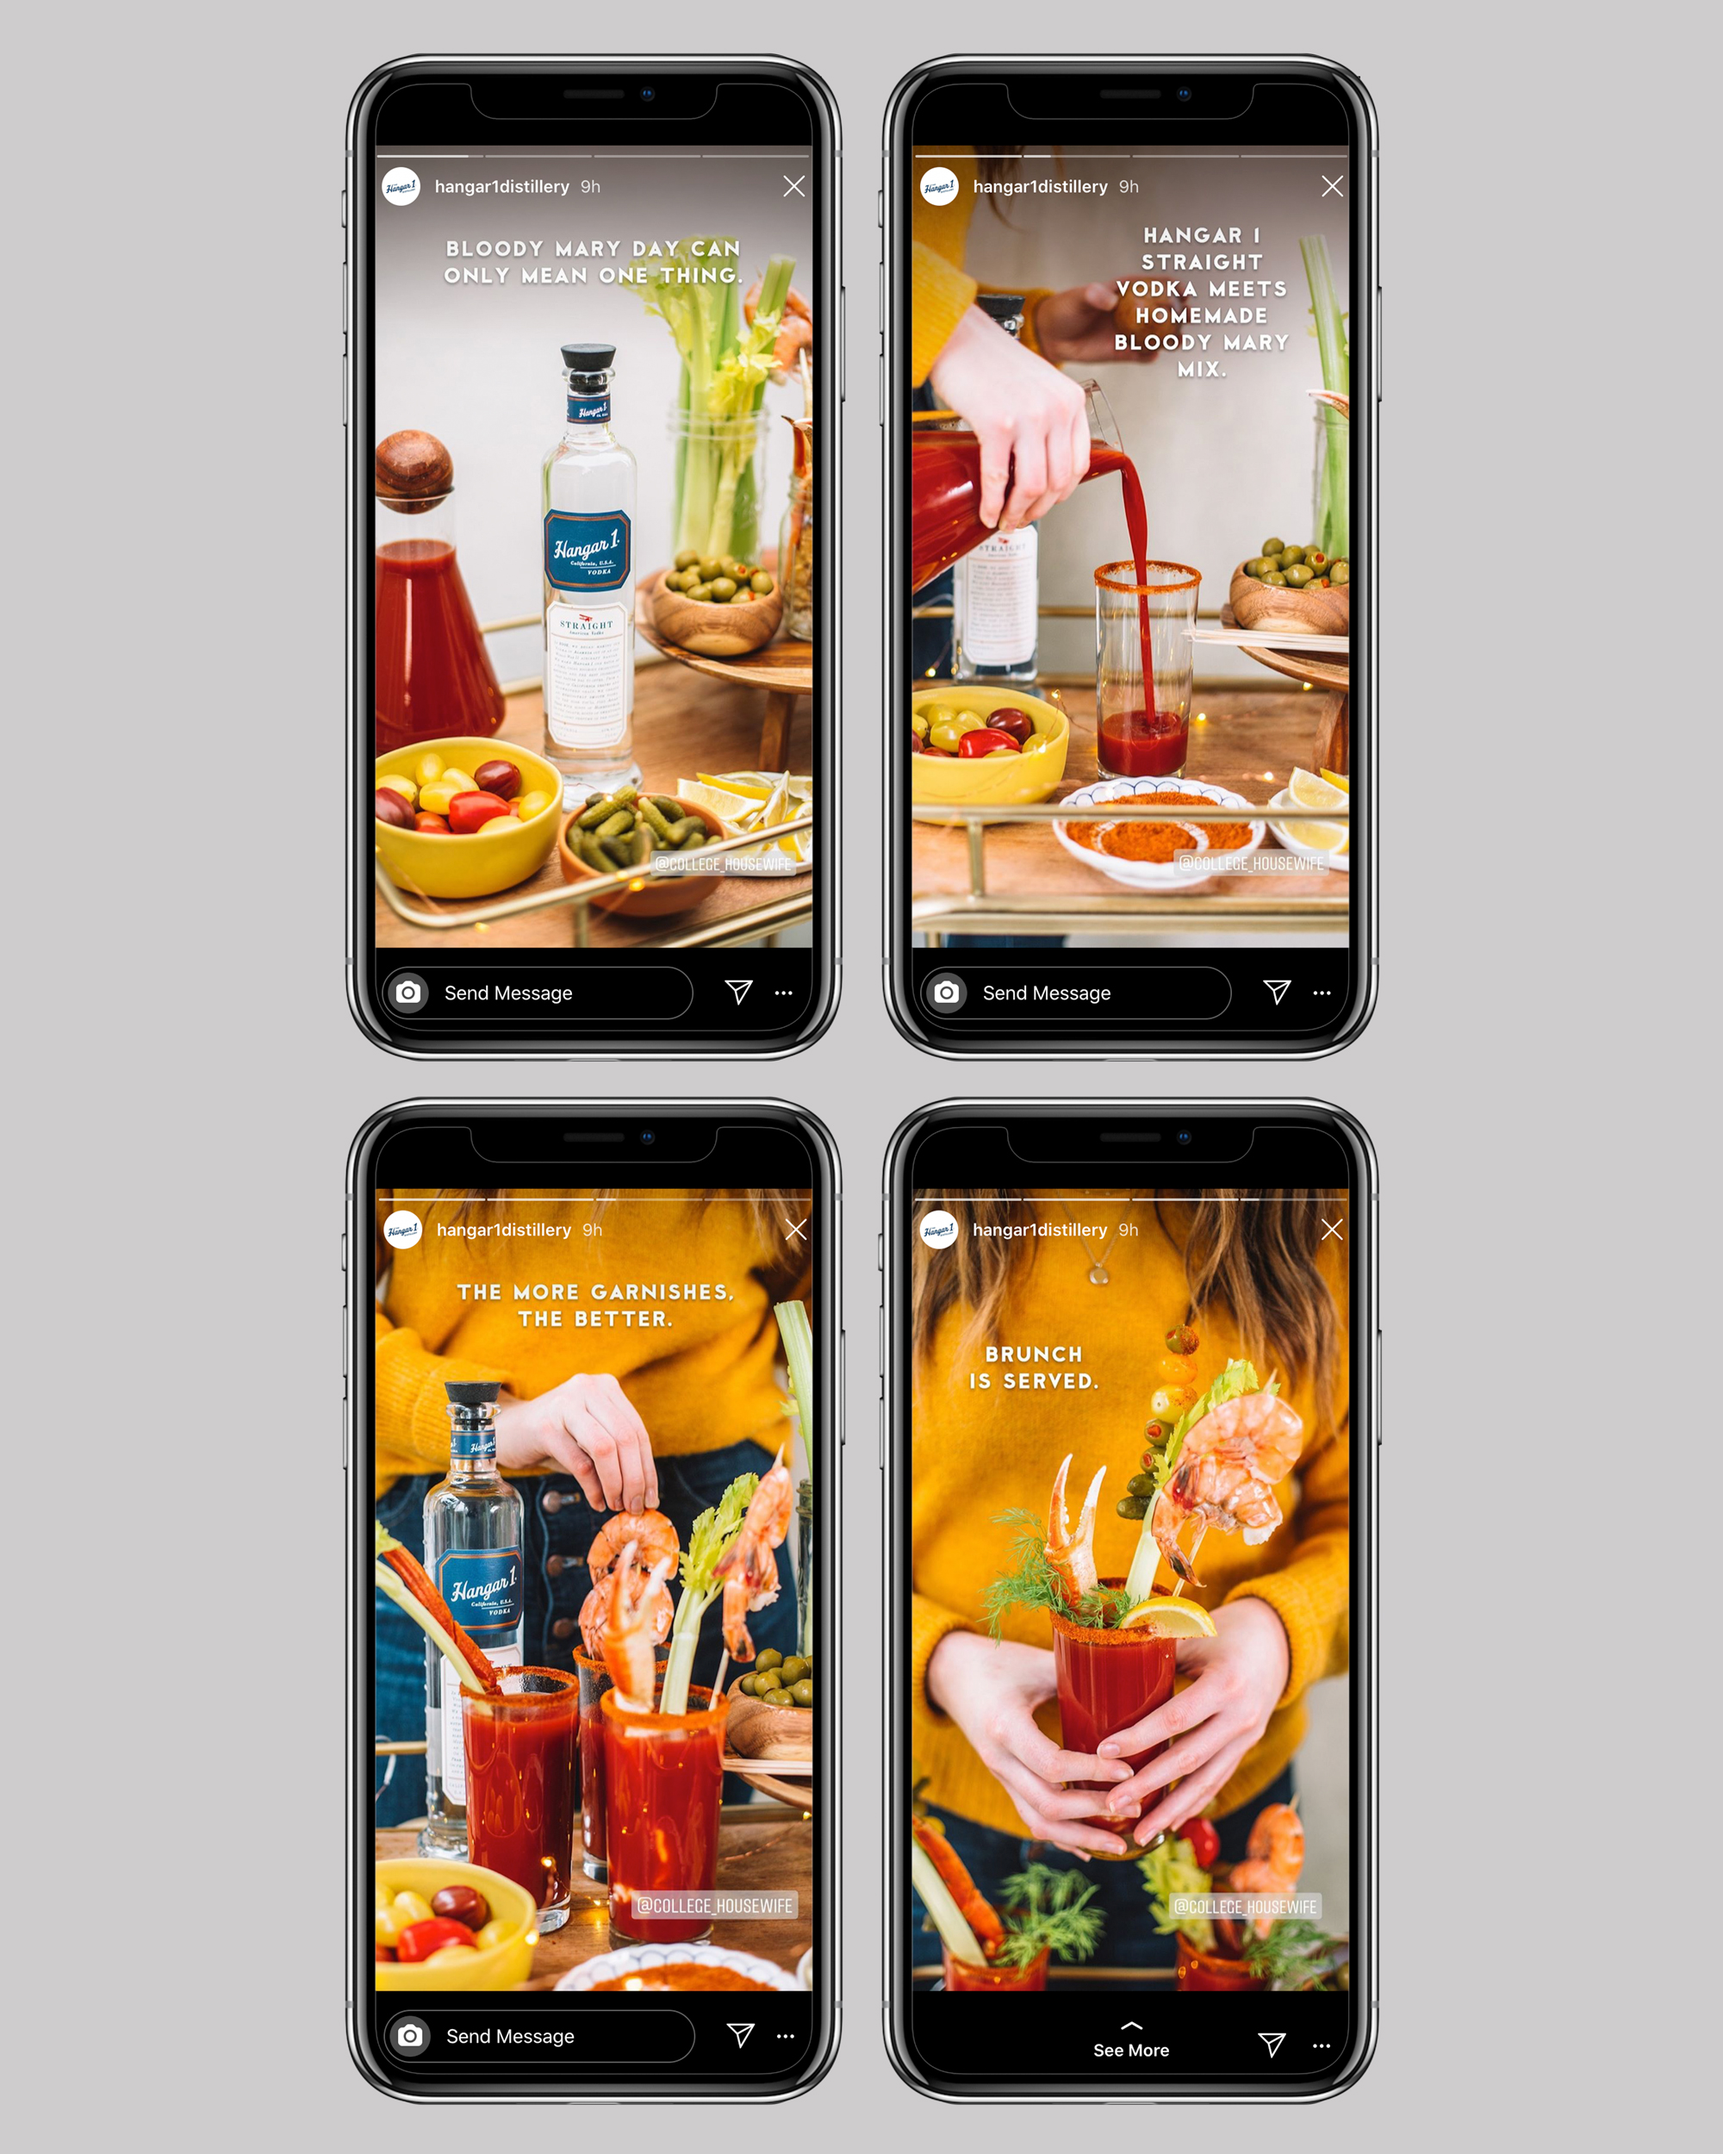
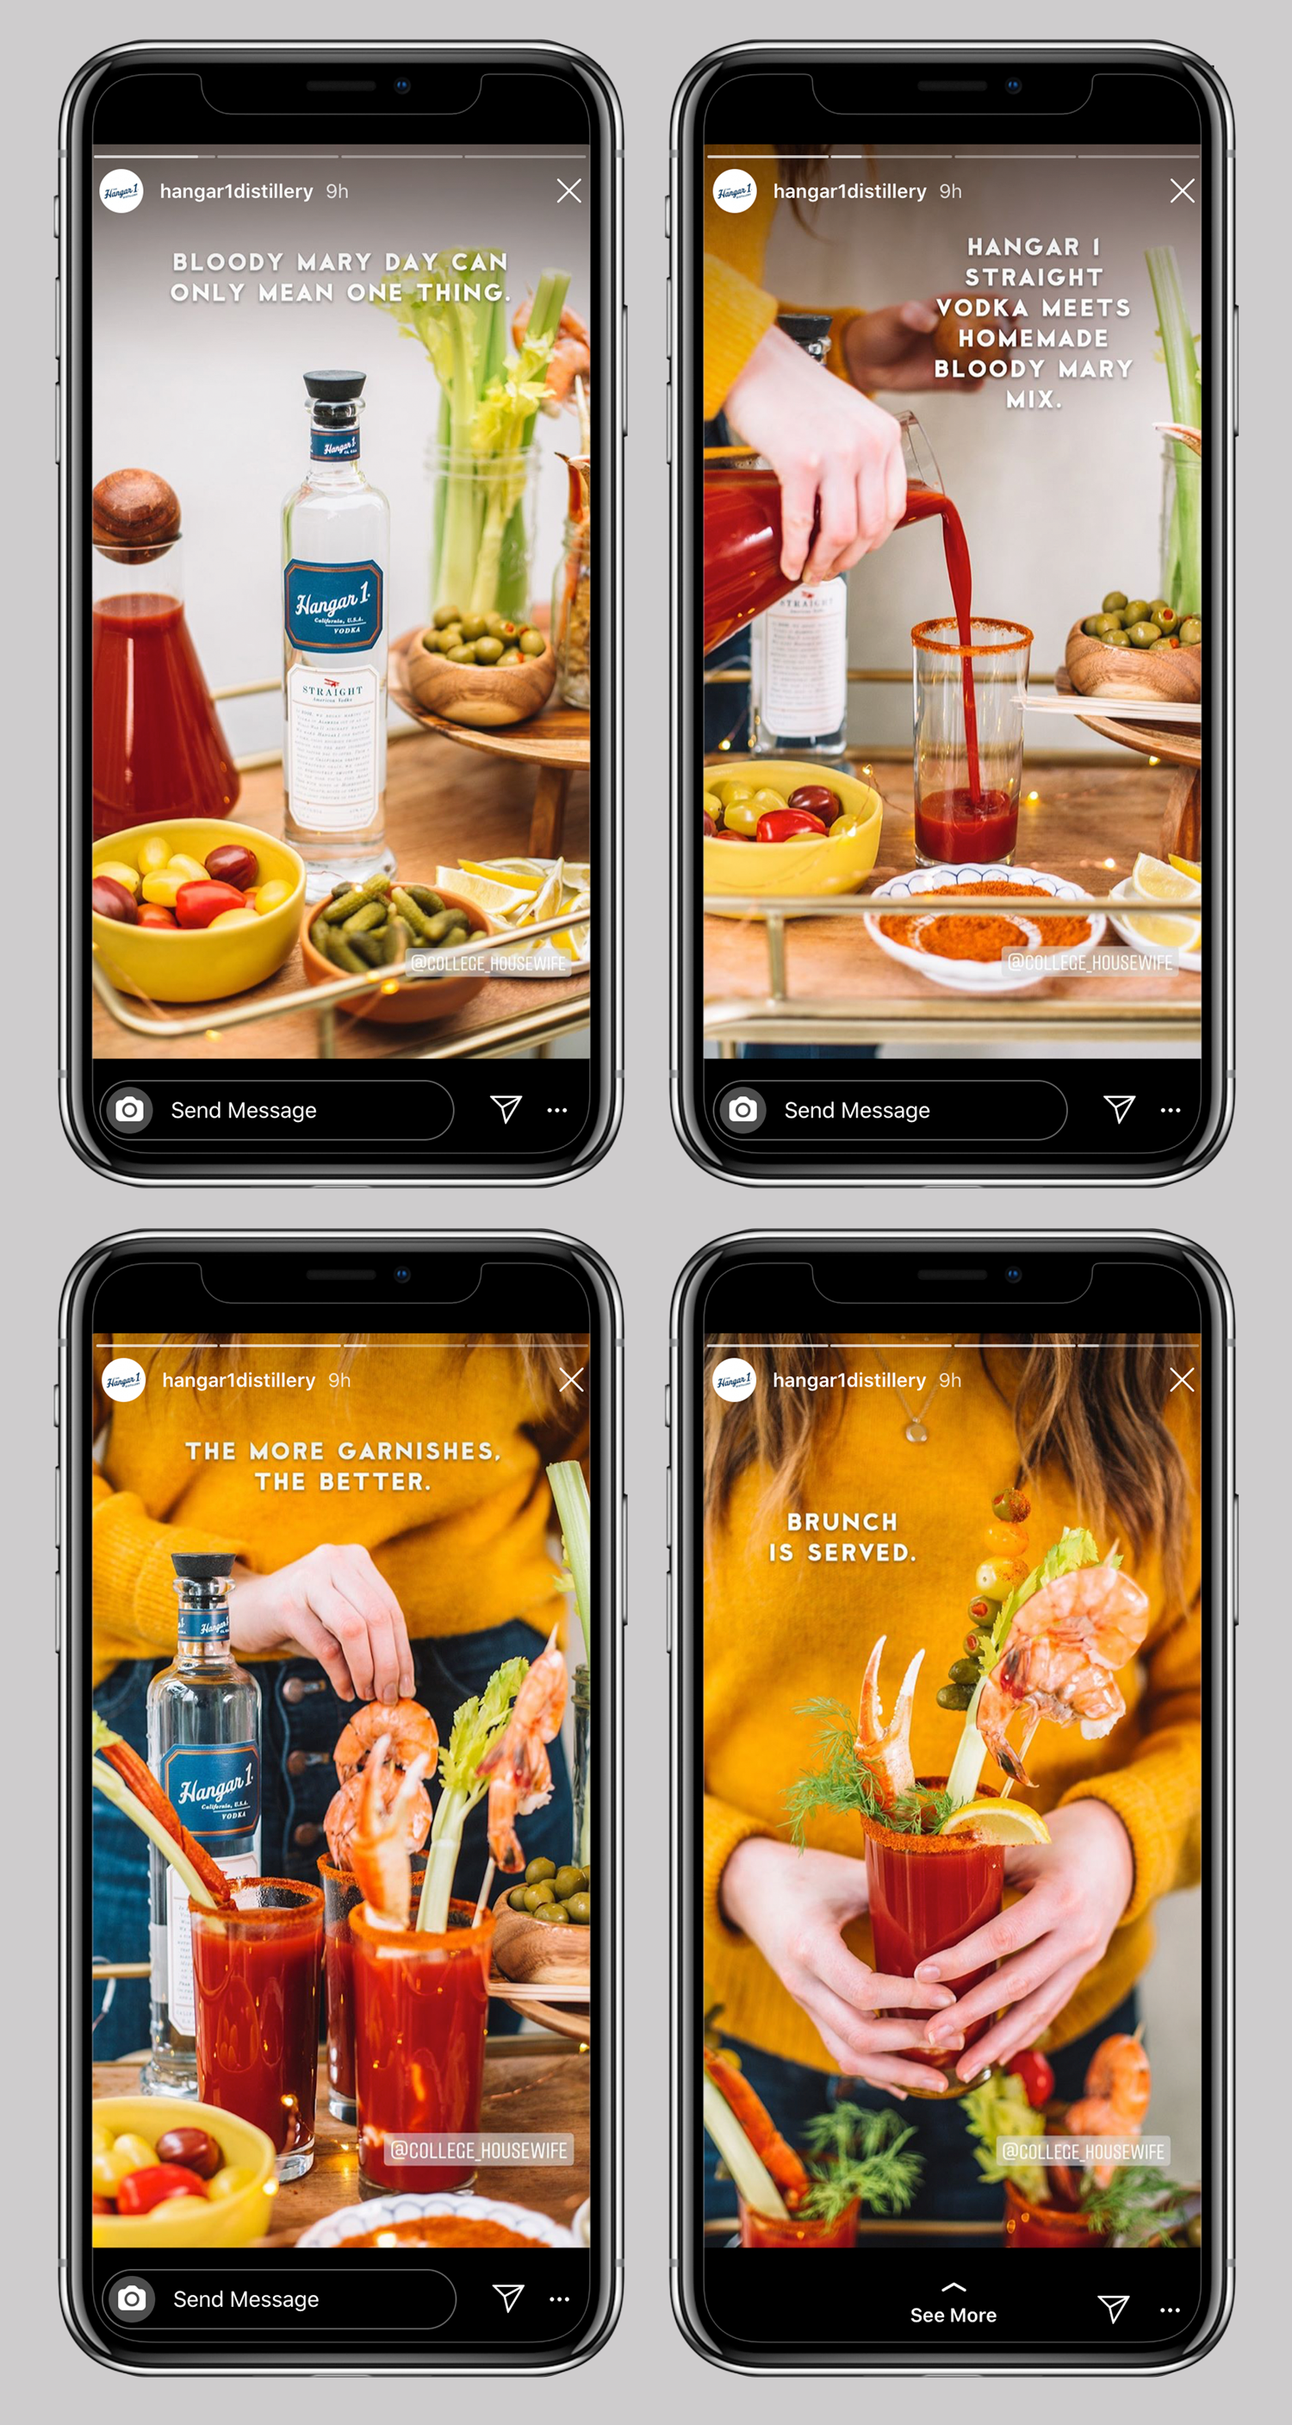
H1 - mobile display edits

diff --git a/hangarone.html b/hangarone.html
@@ -32,7 +32,8 @@
 							<span class="7u"><img class="image fit nomargin" src="Photos/Hangar1/H1_Main_1x1.jpg" data-position="center center"/></span>
 							<div class="content">
 									<div class="inner">
-										<h2><span class="uline">H</span>angar 1 Distillery</h2>
+										<h2>Hangar 1 Distillery</h2>
+										<hr class="blueline"/>
 											<h5 class="smalltitles"> Art Direction. Graphic Design.	</h5>
 											<p class="description-alt"><i> 2017 - 2020 / Agency: The Media Grind / Role: Junior Art Director </i><br></p>
 									</div>
@@ -43,31 +44,32 @@
 	<!-- Main -->
 
 			<!-- IG STORIES  -->
-					<section class="wrapper style1 fade-down space" style="margin-top: 2em;">
+					<section class="wrapper style1 fade-down  " style="margin-top: 2em;">
 						<div class="inner">
 								<h4 class="smalltitles"> THE H1 LIFESTYLE </h4>
 								<p class="description">To bolster Hangar 1's social presence, I created Instagram stories to promote each unique flavor and lifestyle. I worked closely with the social media team and brand copywriter to bring the ideas to life!  </p>
 
 									<!--Bloody Mary -->
 									<picture>
-										<source media="(max-width:715px)" srcset="Photos/Hangar1/h1_stories_bloodymary_mobile.png" class="image fit rounded space">
-										<source media="(min-width:716px)" srcset="Photos/Hangar1/h1_stories_bloodymary.png" class="image fit rounded space">
-										<img src="Photos/Hangar1/h1_stories_bloodymary_mobile.png" class="image fit rounded space" alt="ZALA IG Story 1">
+										<source media="(max-width:715px)" srcset="Photos/Hangar1/h1_stories_bloodymary_mobile.png" class="image fit rounded cushion-bottom">
+										<source media="(min-width:716px)" srcset="Photos/Hangar1/h1_stories_bloodymary.png" class="image fit rounded cushion-bottom">
+										<img src="Photos/Hangar1/h1_stories_bloodymary_mobile.png" class="image fit rounded cushion-bottom" alt="ZALA IG Story 1">
 									</picture>
 
 									<!--Honeycomb-->
 									<picture>
-										<source media="(max-width:715px)" srcset="Photos/Hangar1/h1_stories_honeycomb_mobile.png" class="image fit rounded space">
-										<source media="(min-width:716px)" srcset="Photos/Hangar1/h1_stories_honeycomb.png" class="image fit rounded space">
-										<img src="Photos/Hangar1/h1_stories_honeycomb_mobile.png" class="image fit rounded space" alt="ZALA IG Story 1">
+										<source media="(max-width:715px)" srcset="Photos/Hangar1/h1_stories_honeycomb_mobile.png" class="image fit rounded cushion-bottom">
+										<source media="(min-width:716px)" srcset="Photos/Hangar1/h1_stories_honeycomb.png" class="image fit rounded cushion-bottom">
+										<img src="Photos/Hangar1/h1_stories_honeycomb_mobile.png" class="image fit rounded cushion-bottom" alt="ZALA IG Story 1">
 									</picture>
 
 									<!--Rose-->
 									<picture>
-										<source media="(max-width:715px)" srcset="Photos/Hangar1/h1_stories_rose_mobile.png" class="image fit rounded space">
-										<source media="(min-width:716px)" srcset="Photos/Hangar1/h1_stories_rose.png" class="image fit rounded space">
-										<img src="Photos/Hangar1/h1_stories_rose_mobile.png" class="image fit rounded space" alt="ZALA IG Story 1">
+										<source media="(max-width:715px)" srcset="Photos/Hangar1/h1_stories_rose_mobile.png" class="image fit rounded cushion-bottom">
+										<source media="(min-width:716px)" srcset="Photos/Hangar1/h1_stories_rose.png" class="image fit rounded cushion-bottom">
+										<img src="Photos/Hangar1/h1_stories_rose_mobile.png" class="image fit rounded cushion-bottom" alt="ZALA IG Story 1">
 									</picture>
+									<br>
 
 						</div>
 					</section>
@@ -84,33 +86,33 @@
 											</p>
 
 											<div class="container"><div class="row">
-												<div class="col-md-12">
+												<div class="col-md-12 cushion-bottom">
 													<picture>
-														<source media="(max-width:715px)" srcset="Photos/Hangar1/1_H1_AD_mobile.jpg" class="image fit rounded space">
-														<source media="(min-width:716px)" srcset="Photos/Hangar1/1_H1_AD.jpg" class="image fit rounded space">
-														<img src="Photos/Hangar1/1_H1_AD_mobile.jpg" class="image fit rounded space" alt="ZALA IG Story 1">
+														<source media="(max-width:715px)" srcset="Photos/Hangar1/1_H1_AD_mobile.jpg" class="image fit rounded  ">
+														<source media="(min-width:716px)" srcset="Photos/Hangar1/1_H1_AD.jpg" class="image fit rounded  ">
+														<img src="Photos/Hangar1/1_H1_AD_mobile.jpg" class="image fit rounded  " alt="ZALA IG Story 1">
 													</picture>
 												</div>
 
 
-												<div class="col-md-4">
-													<img class="image fit rounded space" src="Photos/Hangar1/3.2_H1_AD.jpg"/>
+												<div class="col-md-4 cushion-bottom">
+													<img class="image fit rounded  " src="Photos/Hangar1/3.2_H1_AD.jpg"/>
 												</div>
-												<div class="col-md-4">
-													<img class="image fit rounded space" src="Photos/Hangar1/4_H1_AD.jpg"/>
+												<div class="col-md-4 cushion-bottom">
+													<img class="image fit rounded  " src="Photos/Hangar1/4_H1_AD.jpg"/>
 												</div>
-												<div class="col-md-4">
-													<img class="image fit rounded space" src="Photos/Hangar1/2_H1_AD.jpg"/>
+												<div class="col-md-4 cushion-bottom">
+													<img class="image fit rounded  " src="Photos/Hangar1/2_H1_AD.jpg"/>
 												</div>
 
-												<div class="col-md-8">
-													<img class="image fit rounded space" src="Photos/Hangar1/10_H1_AD.jpg"/>
+												<div class="col-md-8 cushion-bottom">
+													<img class="image fit rounded  " src="Photos/Hangar1/10_H1_AD.jpg"/>
 												</div>
-												<div class="col-md-4">
-													<img class="image fit rounded space" src="Photos/Hangar1/7_H1_AD.jpg"/>
+												<div class="col-md-4 cushion-bottom">
+													<img class="image fit rounded  " src="Photos/Hangar1/7_H1_AD.jpg"/>
 												</div>
-												<div class="col-md-4">
-													<img class="image fit rounded space" src="Photos/Hangar1/5_H1_AD.jpg"/>
+												<div class="col-md-4 cushion-bottom">
+													<img class="image fit rounded  " src="Photos/Hangar1/5_H1_AD.jpg"/>
 												</div>
 
 											</div></div>
